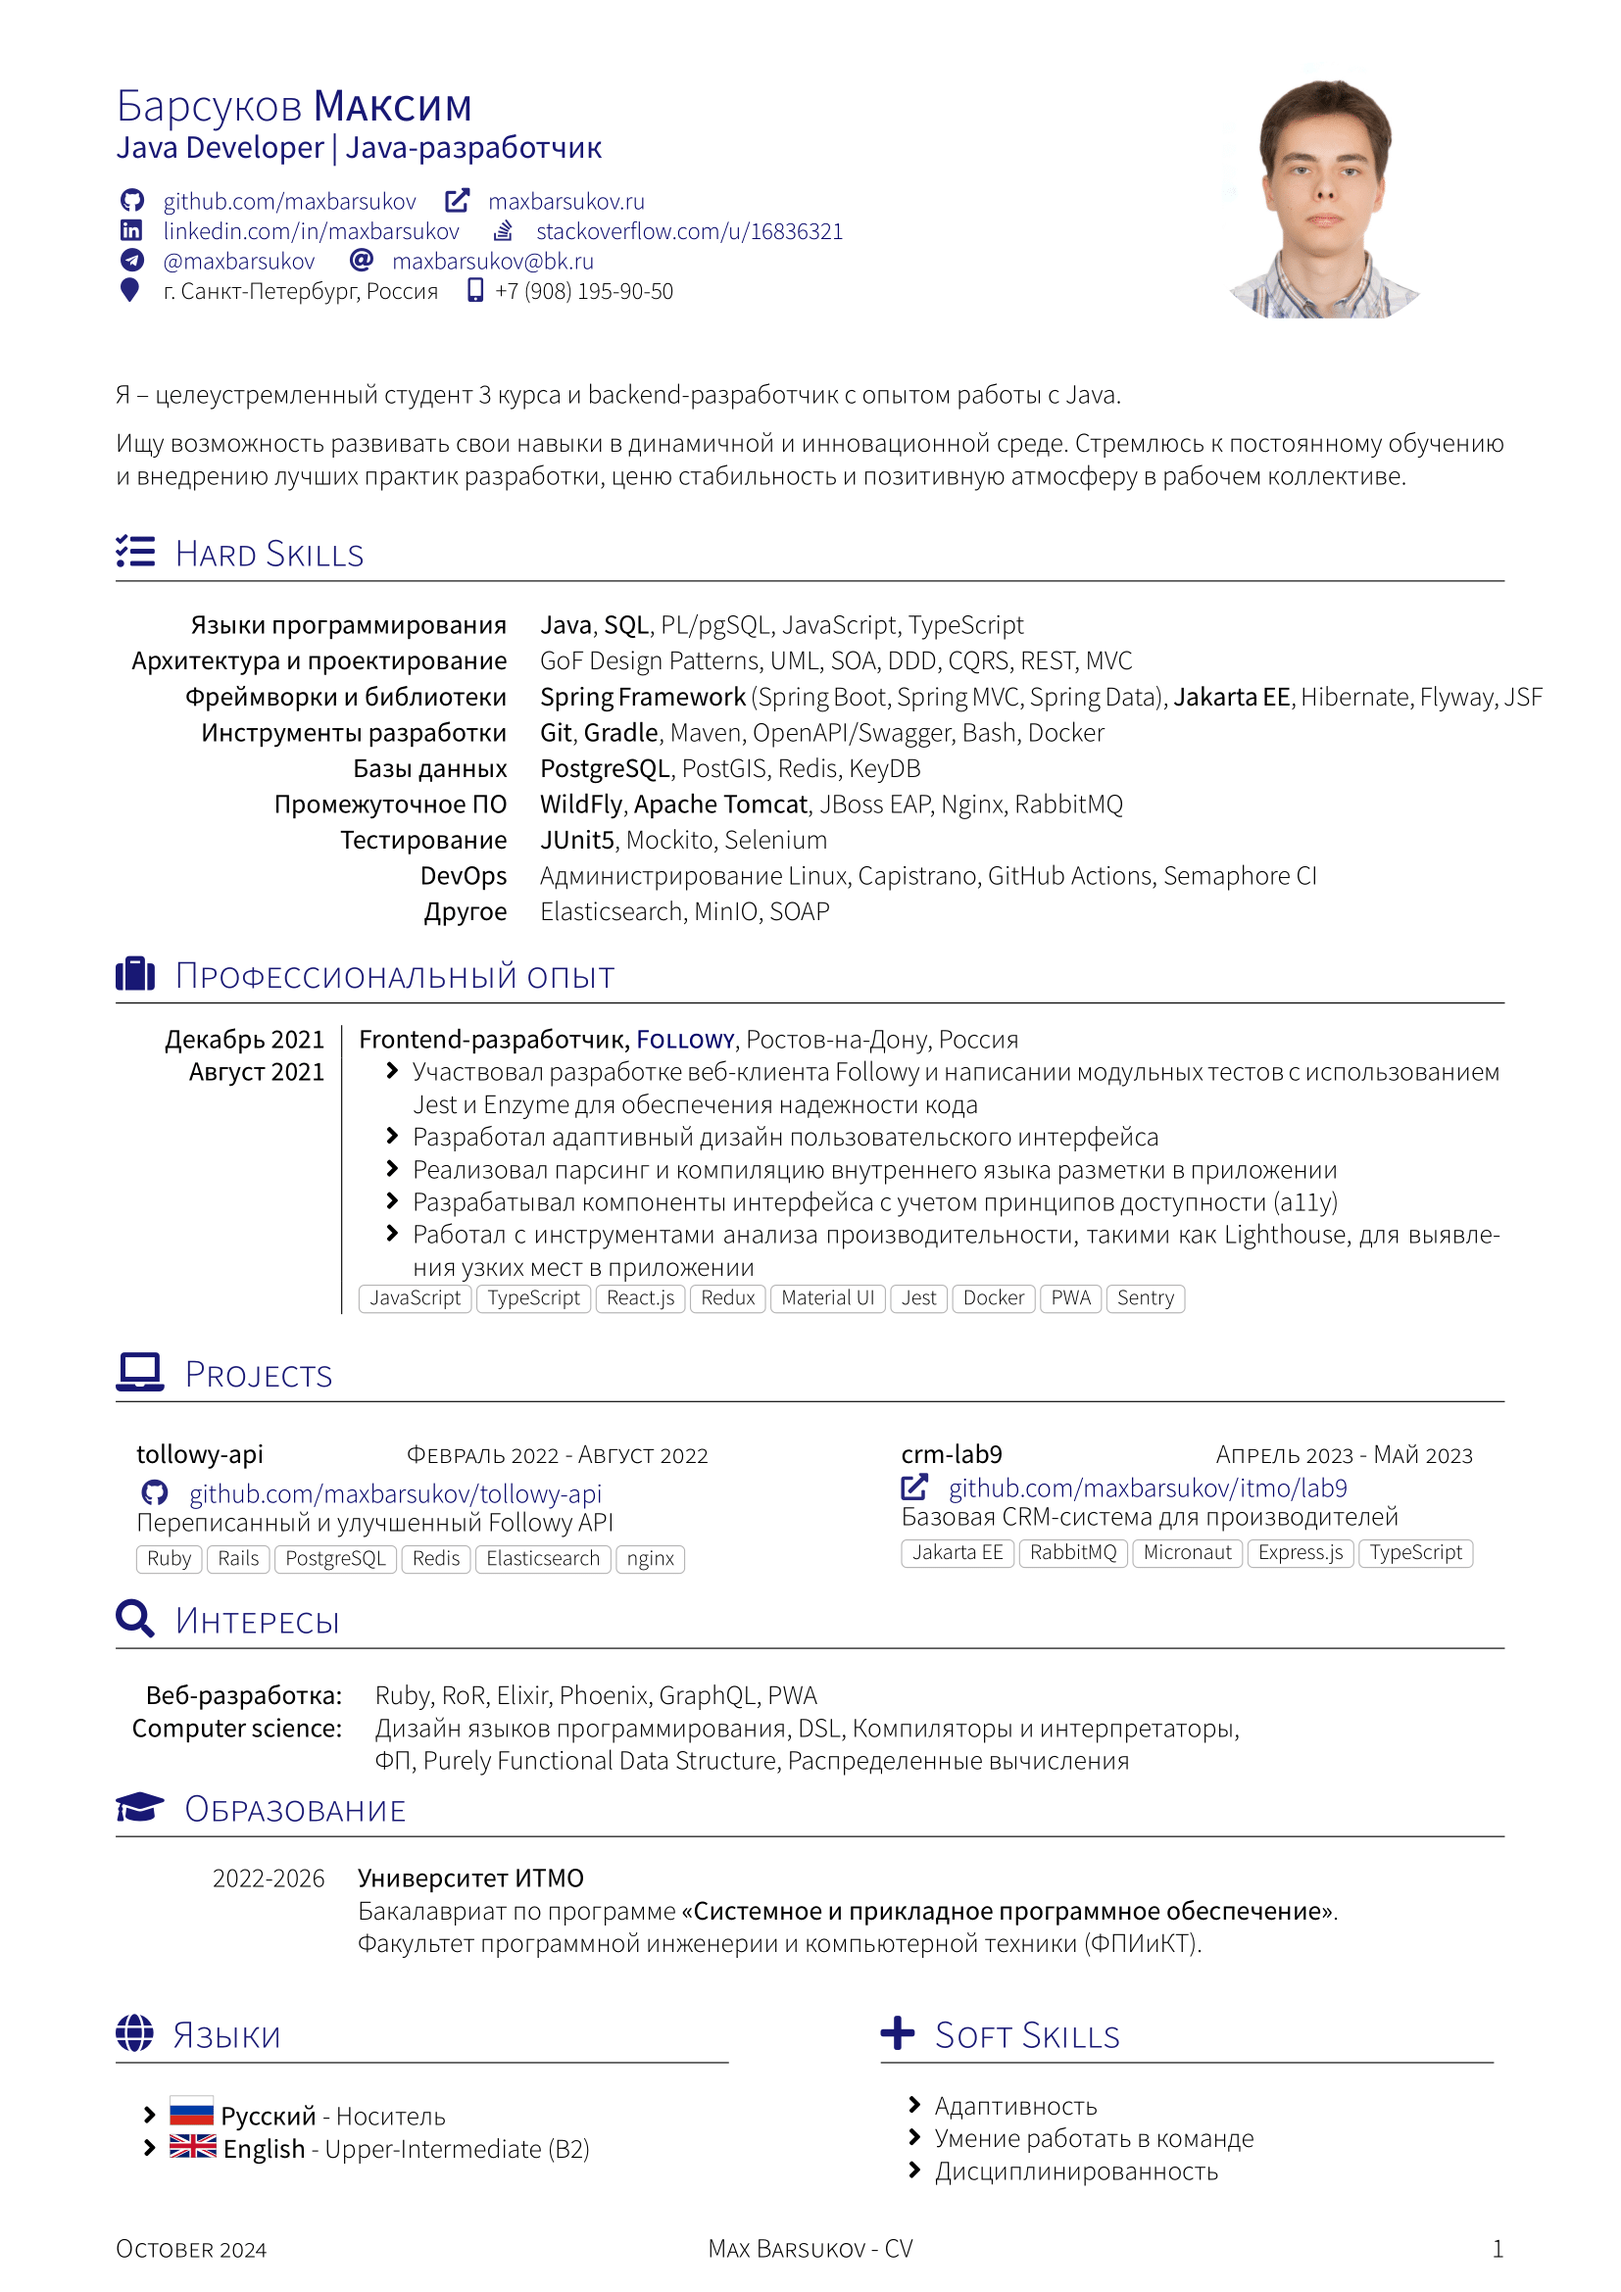
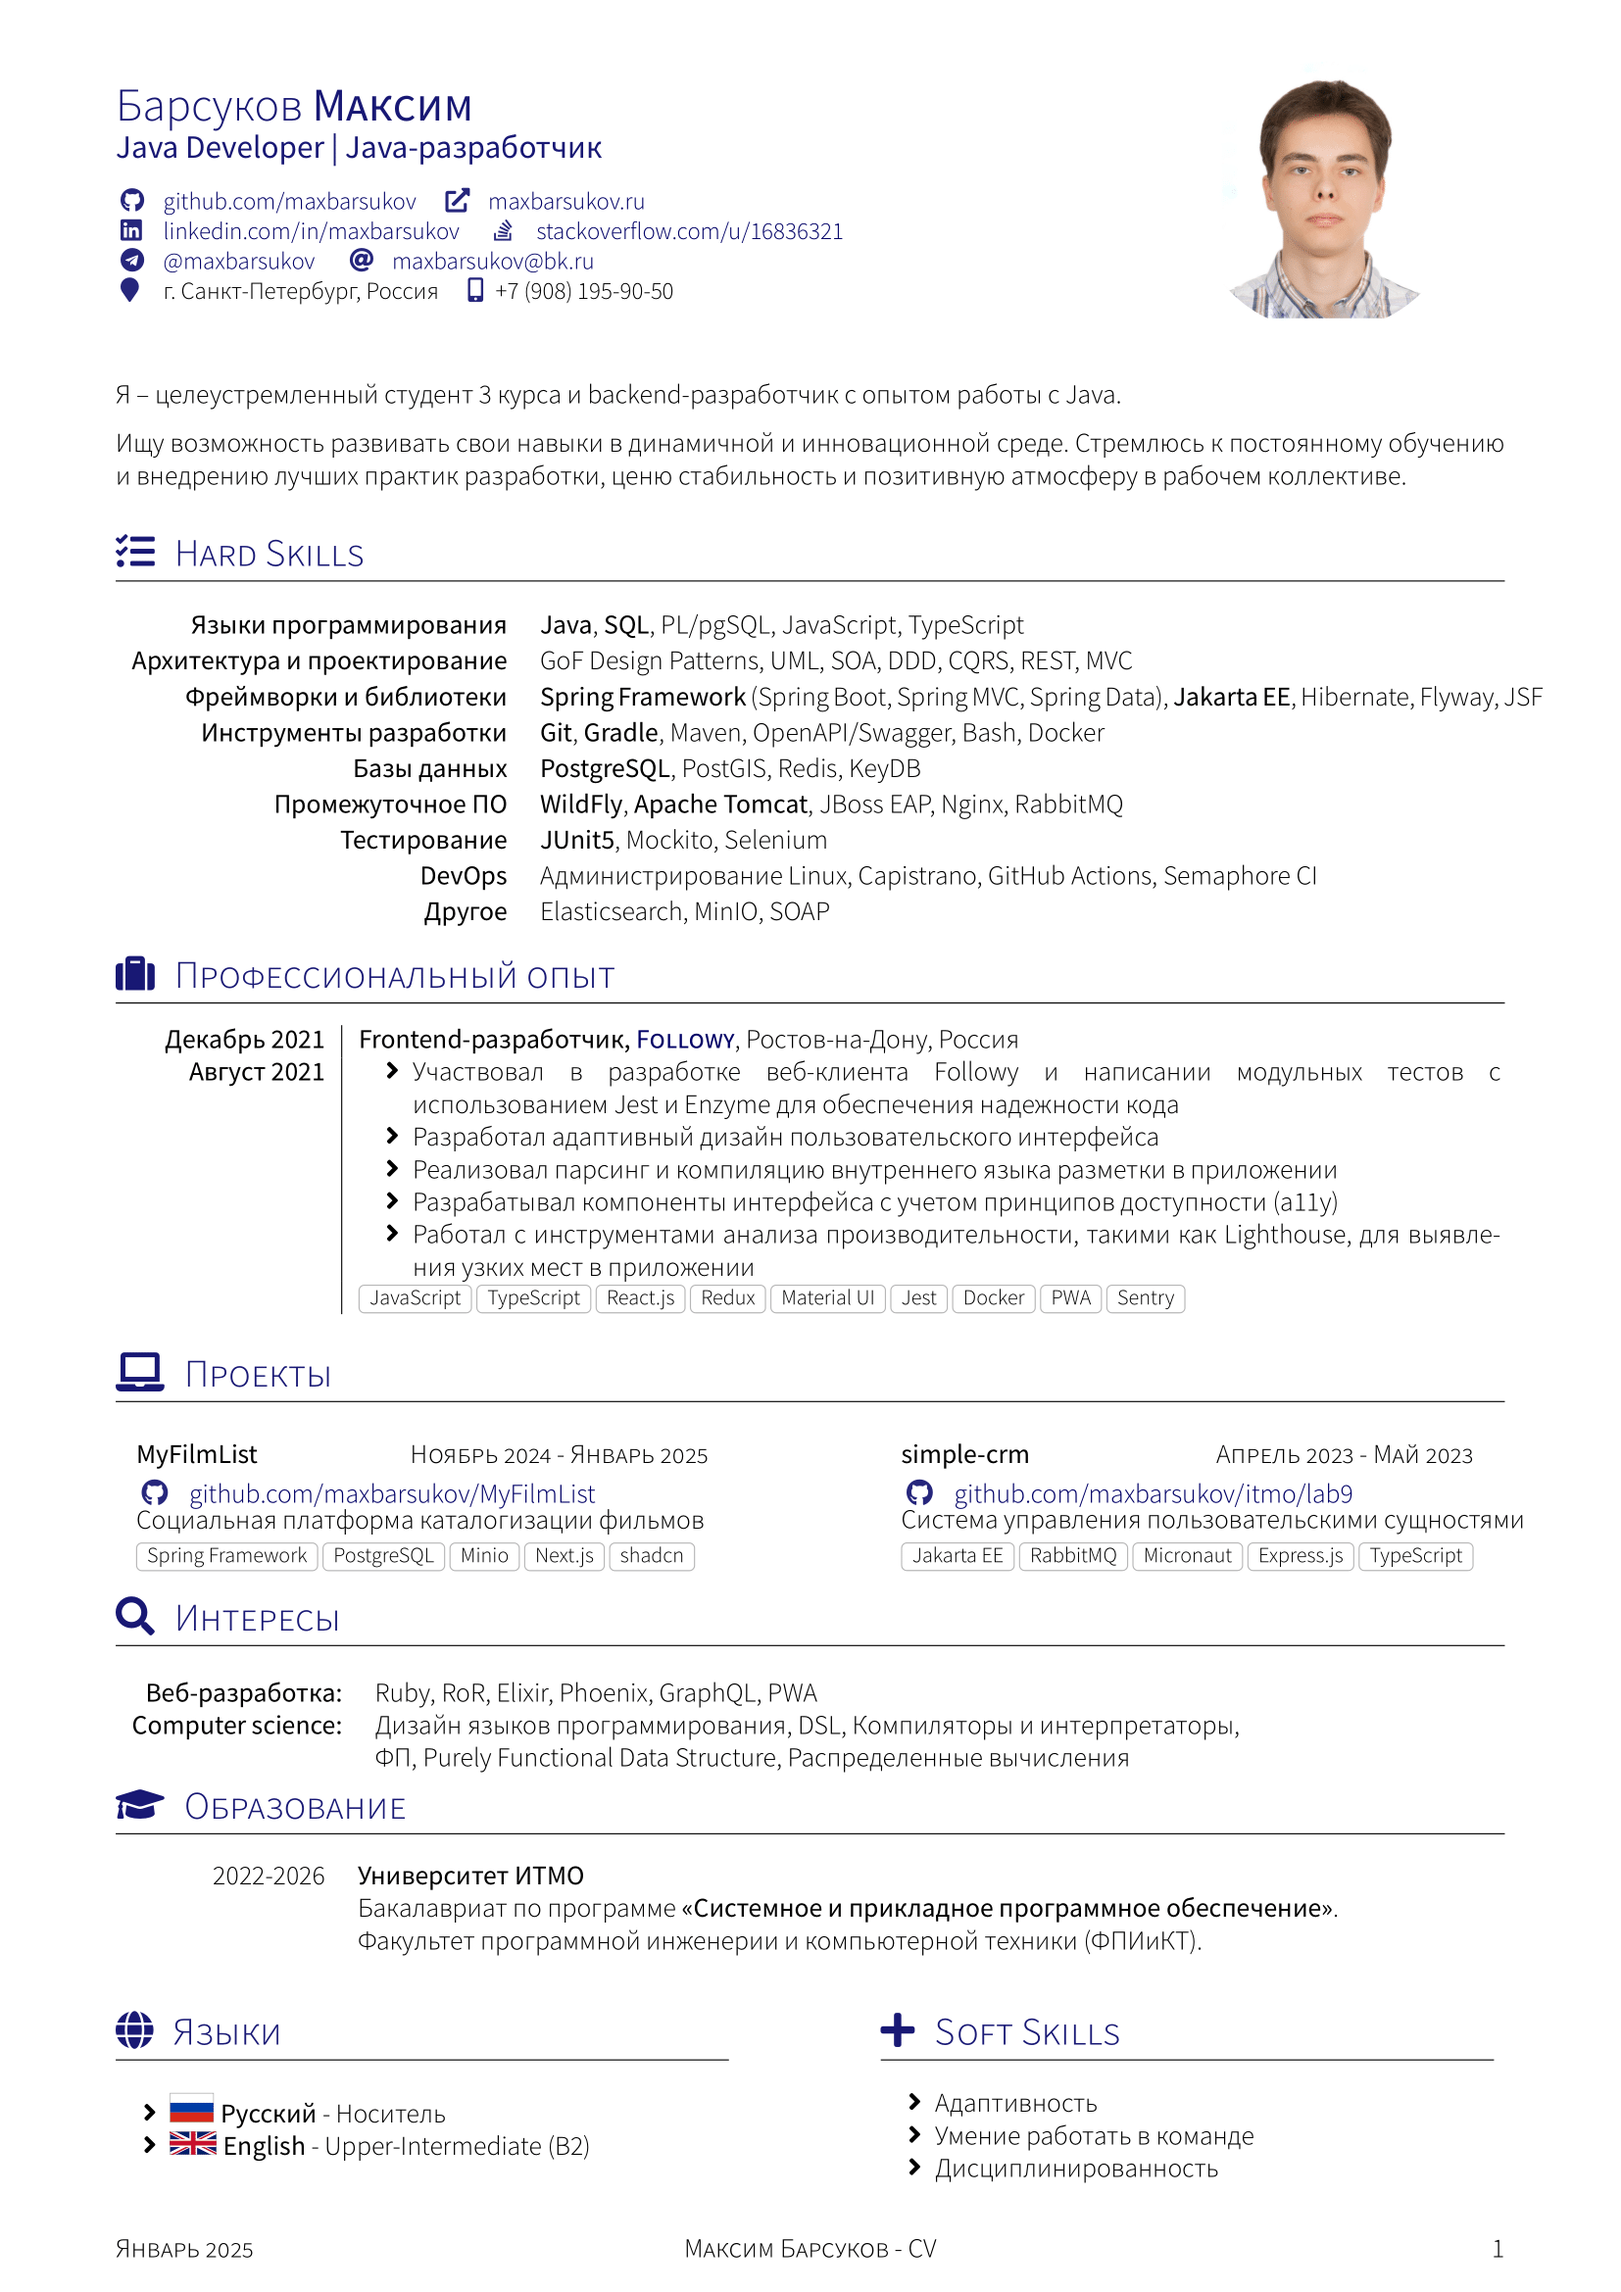
feat: :sparkles: update java cv

diff --git a/src/sections/projects/java.ru.tex b/src/sections/projects/java.ru.tex
@@ -4,17 +4,18 @@
 \twocolumnsection{
    \begin{projects}
       \project
-         {information-system}{Октябрь 2024 - Декабрь 2024}
-         {\github{maxbarsukov-itmo/information-systems-labs}}
-         {\mbox{Система управления пользовательскими сущностями}}
-      {Spring Framework, PostgreSQL, WebSocket, React, MUI}
+         {MyFilmList}{Ноябрь 2024 - Январь 2025}
+         {\github{maxbarsukov/MyFilmList}}
+         {Социальная платформа каталогизации фильмов}
+         {Spring Framework, PostgreSQL, Minio, Next.js, shadcn}
    \end{projects}
 }
-{\begin{projects}
-   \project
-      {simple-crm}{Апрель 2023 - Май 2023}
-      {\website{https://github.com/maxbarsukov/itmo/tree/master/1-2\%20\%D0\%BF\%D1\%80\%D0\%BE\%D0\%B3\%D1\%80\%D0\%B0\%D0\%BC\%D0\%BC\%D0\%B8\%D1\%80\%D0\%BE\%D0\%B2\%D0\%B0\%D0\%BD\%D0\%B8\%D0\%B5/\%D0\%BB\%D0\%B0\%D0\%B1\%D0\%BE\%D1\%80\%D0\%B0\%D1\%82\%D0\%BE\%D1\%80\%D0\%BD\%D1\%8B\%D0\%B5/lab9}{github.com/maxbarsukov/itmo/lab9}}
-      {Небольшая CRM-система для производителей}
-   {Jakarta EE, RabbitMQ, Micronaut, Express.js, TypeScript}
+{
+   \begin{projects}
+      \project
+         {simple-crm}{Апрель 2023 - Май 2023}
+         {\sociallink{\githubSymbol}{https://github.com/maxbarsukov/itmo/tree/master/1-2\%20\%D0\%BF\%D1\%80\%D0\%BE\%D0\%B3\%D1\%80\%D0\%B0\%D0\%BC\%D0\%BC\%D0\%B8\%D1\%80\%D0\%BE\%D0\%B2\%D0\%B0\%D0\%BD\%D0\%B8\%D0\%B5/\%D0\%BB\%D0\%B0\%D0\%B1\%D0\%BE\%D1\%80\%D0\%B0\%D1\%82\%D0\%BE\%D1\%80\%D0\%BD\%D1\%8B\%D0\%B5/lab9}{github.com/maxbarsukov/itmo/lab9}}
+         {\mbox{Система управления пользовательскими сущностями}}
+         {Jakarta EE, RabbitMQ, Micronaut, Express.js, TypeScript}
    \end{projects}
 }
